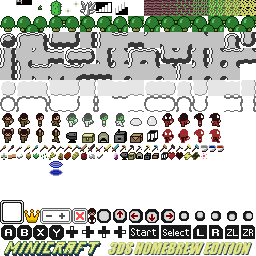
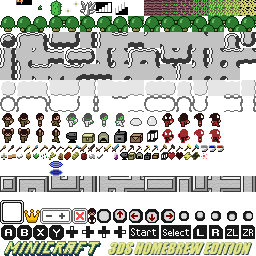
Add Placeable Wood Walls

Changed region(s): [[0.0, 0.6875, 1.0, 0.75]]

diff --git a/source/Globals.c b/source/Globals.c
@@ -409,6 +409,7 @@ bool tileIsSolid(int tile, Entity * e){
         case TILE_GEMORE: 
         case TILE_CLOUDCACTUS: 
         case TILE_LAVA: 
+		case TILE_WOOD_WALL: 
         case 255: 
             return true;
         case TILE_WATER:
@@ -549,6 +550,10 @@ s8 itemTileInteract(int tile, Item* item, int x, int y, int px, int py, int dir)
 				setData(rand()%4,x,y); // determines mirroring.
                 return 1;
             } 
+			else if(item->id == ITEM_WOOD){ 
+                setTile(TILE_WOOD_WALL,x,y); --item->countLevel;
+                return 1;
+            } 
             else if(item->id == TOOL_SHOVEL && playerUseEnergy(4-item->countLevel)){ 
                 if(rand()%5==0)addEntityToList(newItemEntity(newItem(ITEM_SEEDS,1),(x<<4)+8, (y<<4)+8,currentLevel),&eManager);
                 setTile(TILE_DIRT,x,y); 
@@ -570,6 +575,10 @@ s8 itemTileInteract(int tile, Item* item, int x, int y, int px, int py, int dir)
                 setTile(TILE_FARM,x,y);
                 return 1;
             }   
+			else if(item->id == ITEM_WOOD){ 
+                setTile(TILE_WOOD_WALL,x,y); --item->countLevel;
+                return 1;
+            } 
             else if(item->id == TOOL_SHOVEL && playerUseEnergy(4-item->countLevel)){ 
                 addEntityToList(newItemEntity(newItem(ITEM_DIRT,1), (x<<4)+8, (y<<4)+8, currentLevel), &eManager);
                 setTile(TILE_HOLE,x,y); 
@@ -635,6 +644,11 @@ s8 itemTileInteract(int tile, Item* item, int x, int y, int px, int py, int dir)
                     addItemsToWorld(newItem(ITEM_WHEAT,1),(x<<4)+8,(y<<4)+8,count);
 				    setTile(TILE_DIRT,x,y);
                 }
+            } break;
+		case TILE_WOOD_WALL:
+            if(item->id == TOOL_AXE && playerUseEnergy(4-item->countLevel)){
+                playerHurtTile(tile, x, y, (rand()%10) + (item->countLevel) * 5 + 10, player.p.dir);
+                return 1;
             } break;
     }
     return 0;
@@ -1137,6 +1151,16 @@ void playerHurtTile(int tile, int xt, int yt, int damage, int dir){
 			setTile(TILE_GRASS,xt,yt);
 			addEntityToList(newItemEntity(newItem(ITEM_FLOWER,1), (xt<<4)+8,(yt<<4)+8, currentLevel), &eManager);
             break;
+		case TILE_WOOD_WALL:
+            sprintf(hurtText, "%d", damage);
+            addEntityToList(newTextParticleEntity(hurtText,0xFF0000FF,xt<<4,yt<<4,currentLevel), &eManager);
+            addEntityToList(newSmashParticleEntity(xt<<4,yt<<4,currentLevel), &eManager);
+            setData(getData(xt,yt)+damage,xt,yt);
+            if(getData(xt,yt) > 20){
+                 setTile(TILE_DIRT,xt,yt);
+                 addItemsToWorld(newItem(ITEM_WOOD,1),(xt<<4)+8,(yt<<4)+8,1);
+            }
+        break;
     }
     
 }
@@ -1456,4 +1480,7 @@ void reloadColors() {
 	rockColor[1] = SWAP_UINT32(sf2d_get_pixel(icons, 21, 1)); 
 	rockColor[2] = SWAP_UINT32(sf2d_get_pixel(icons, 21, 2)); 
 	rockColor[3] = SWAP_UINT32(sf2d_get_pixel(icons, 21, 3)); 
+	
+	woodColor[0]  = SWAP_UINT32(sf2d_get_pixel(icons, 22, 0)); 
+	woodColor[1]  = SWAP_UINT32(sf2d_get_pixel(icons, 22, 1)); 
 }

diff --git a/source/Globals.h b/source/Globals.h
@@ -48,6 +48,7 @@
 #define TILE_HARDROCK 19
 #define TILE_CLOUDCACTUS 20
 #define TILE_HOLE 21
+#define TILE_WOOD_WALL 22
 
 #define SWAP_UINT32(x) (((x) >> 24) | (((x) & 0x00FF0000) >> 8) | (((x) & 0x0000FF00) << 8) | ((x) << 24))
 
@@ -83,6 +84,7 @@ u32 sandColor[2];
 u32 waterColor[2];
 u32 lavaColor[2];
 u32 rockColor[4];
+u32 woodColor[2];
 
 char currentFileName[256];
 extern u8 currentMenu;

diff --git a/source/Render.c b/source/Render.c
@@ -643,6 +643,9 @@ void renderTile(int i, int x, int y) {
 			age = 5;
 		render16(x, y, 160 + (age << 4), 0, 0);
 		break;
+	case TILE_WOOD_WALL:
+		render16b(x, y, grassTable[checkSurrTiles4(x >> 4, y >> 4, TILE_WOOD_WALL)], 176, 0, woodColor[0]);
+		break;
 	}
 
 }
